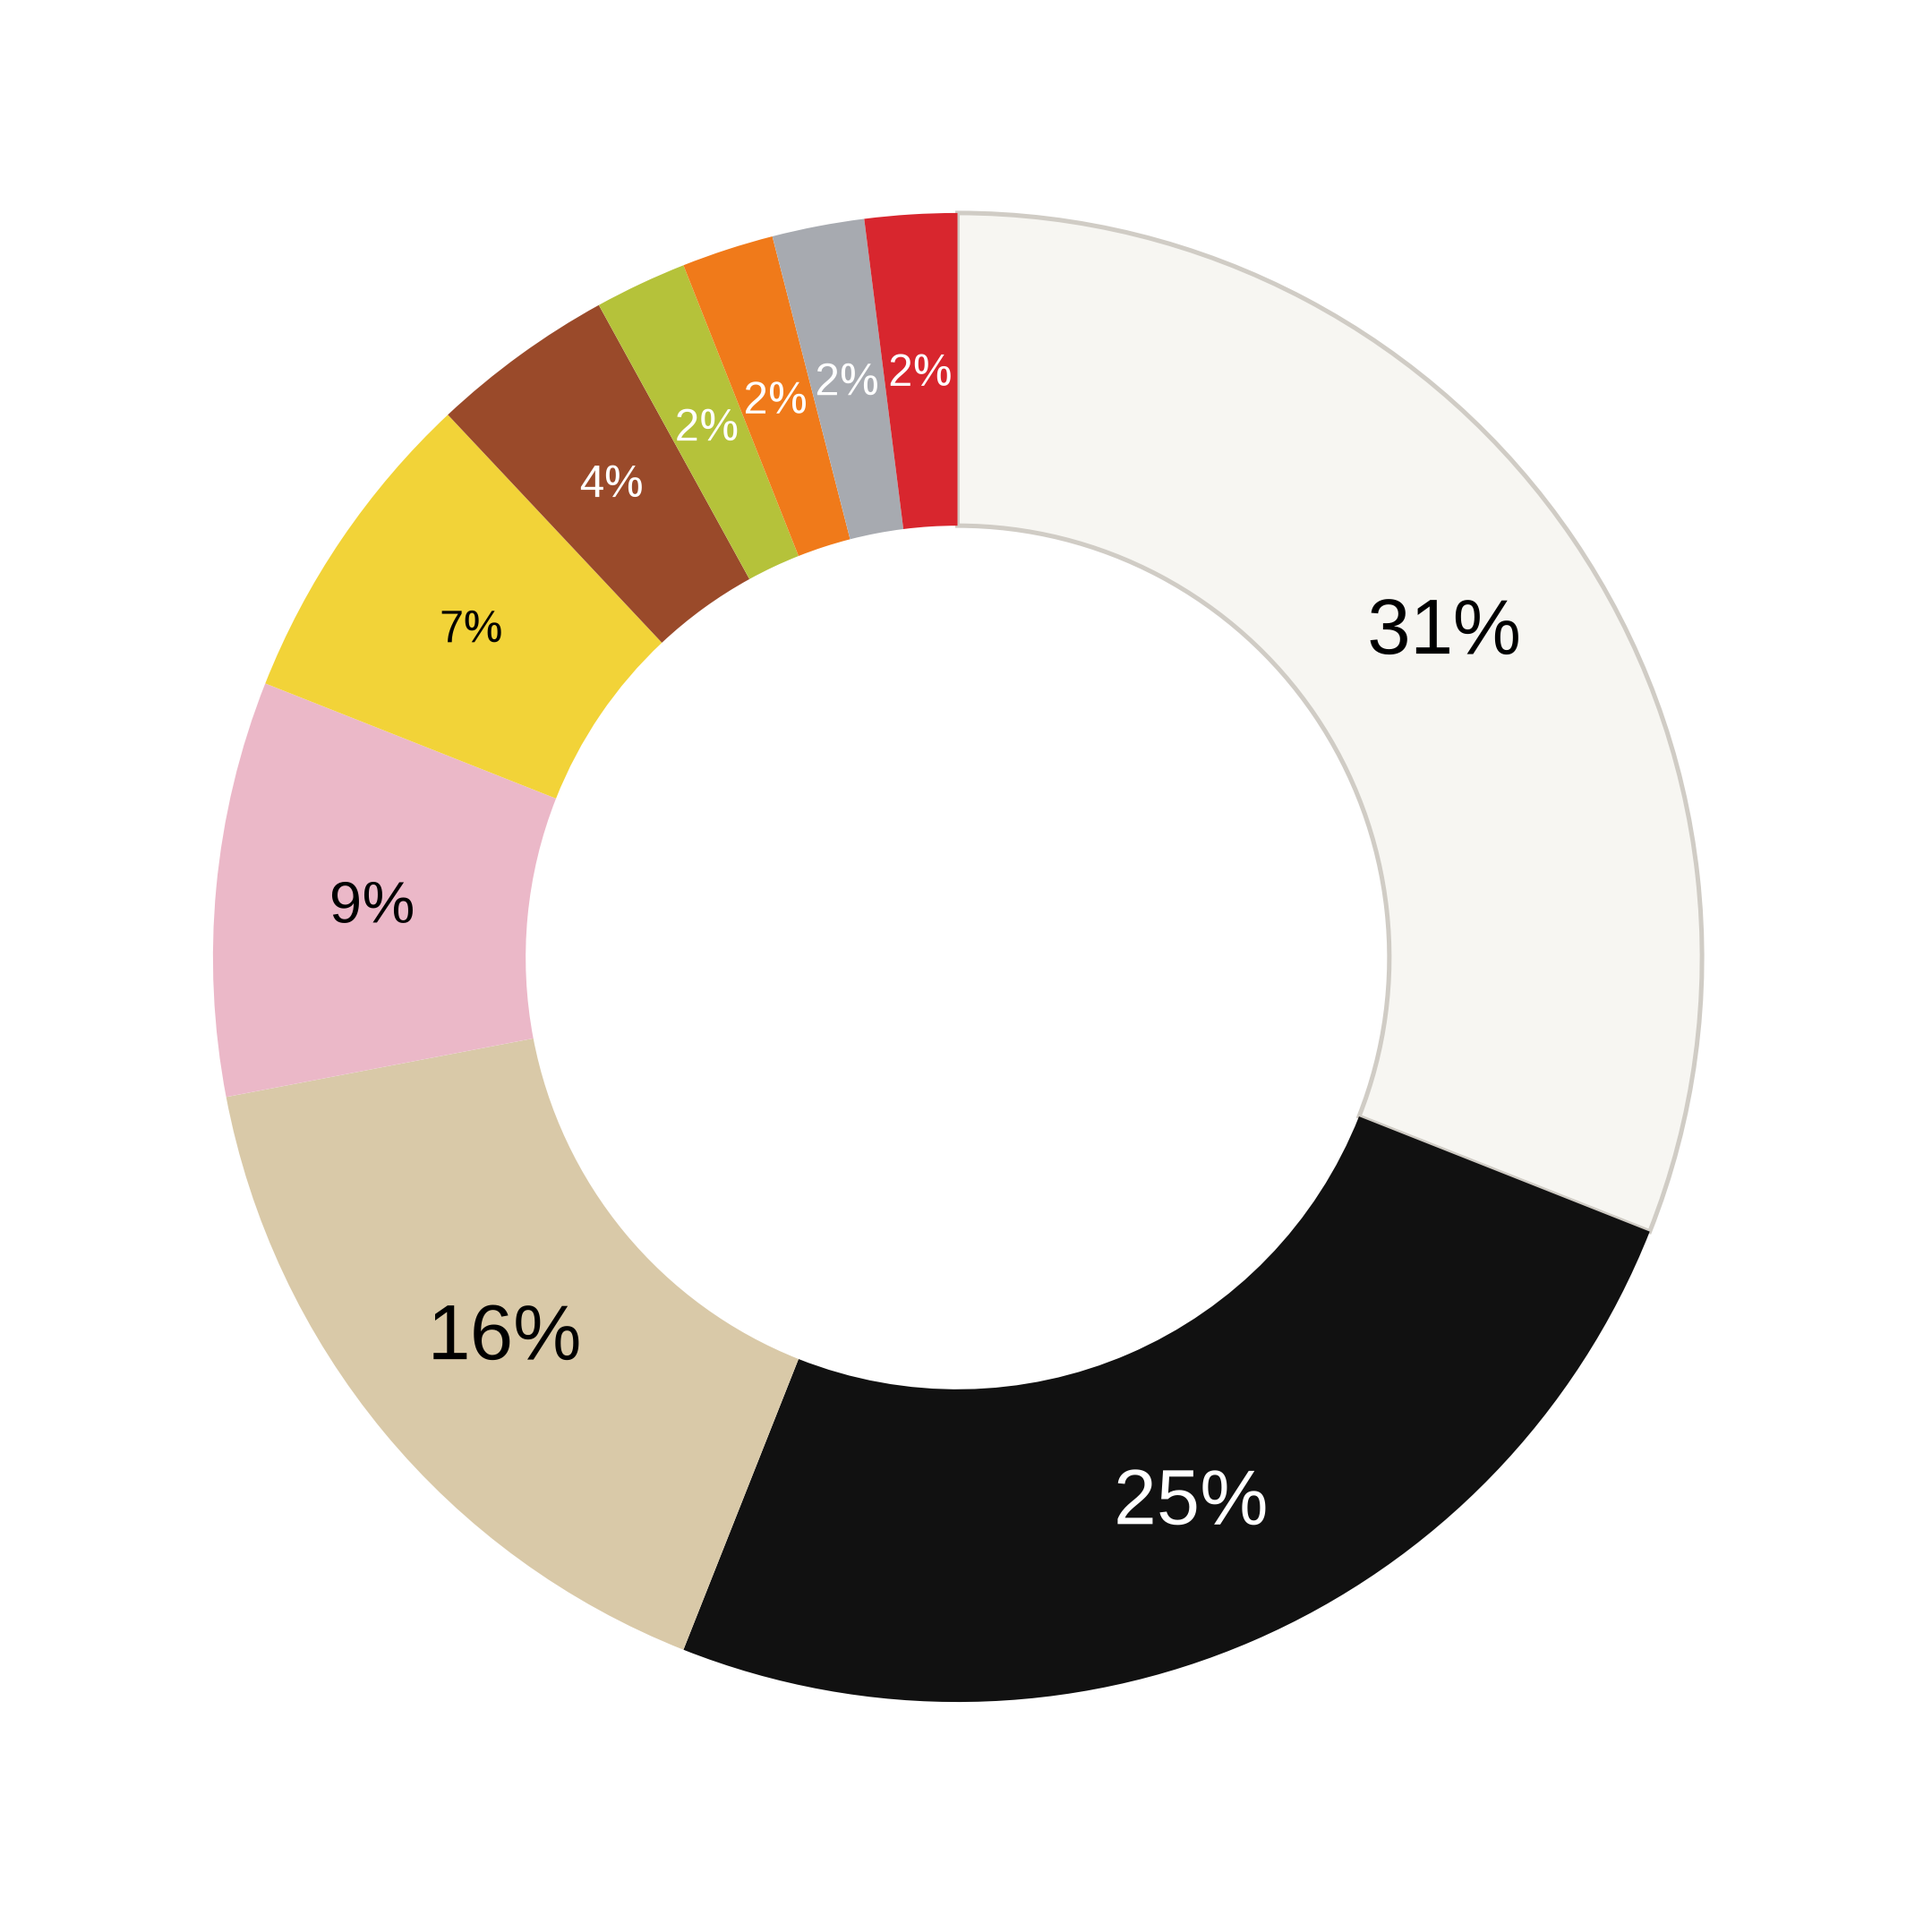
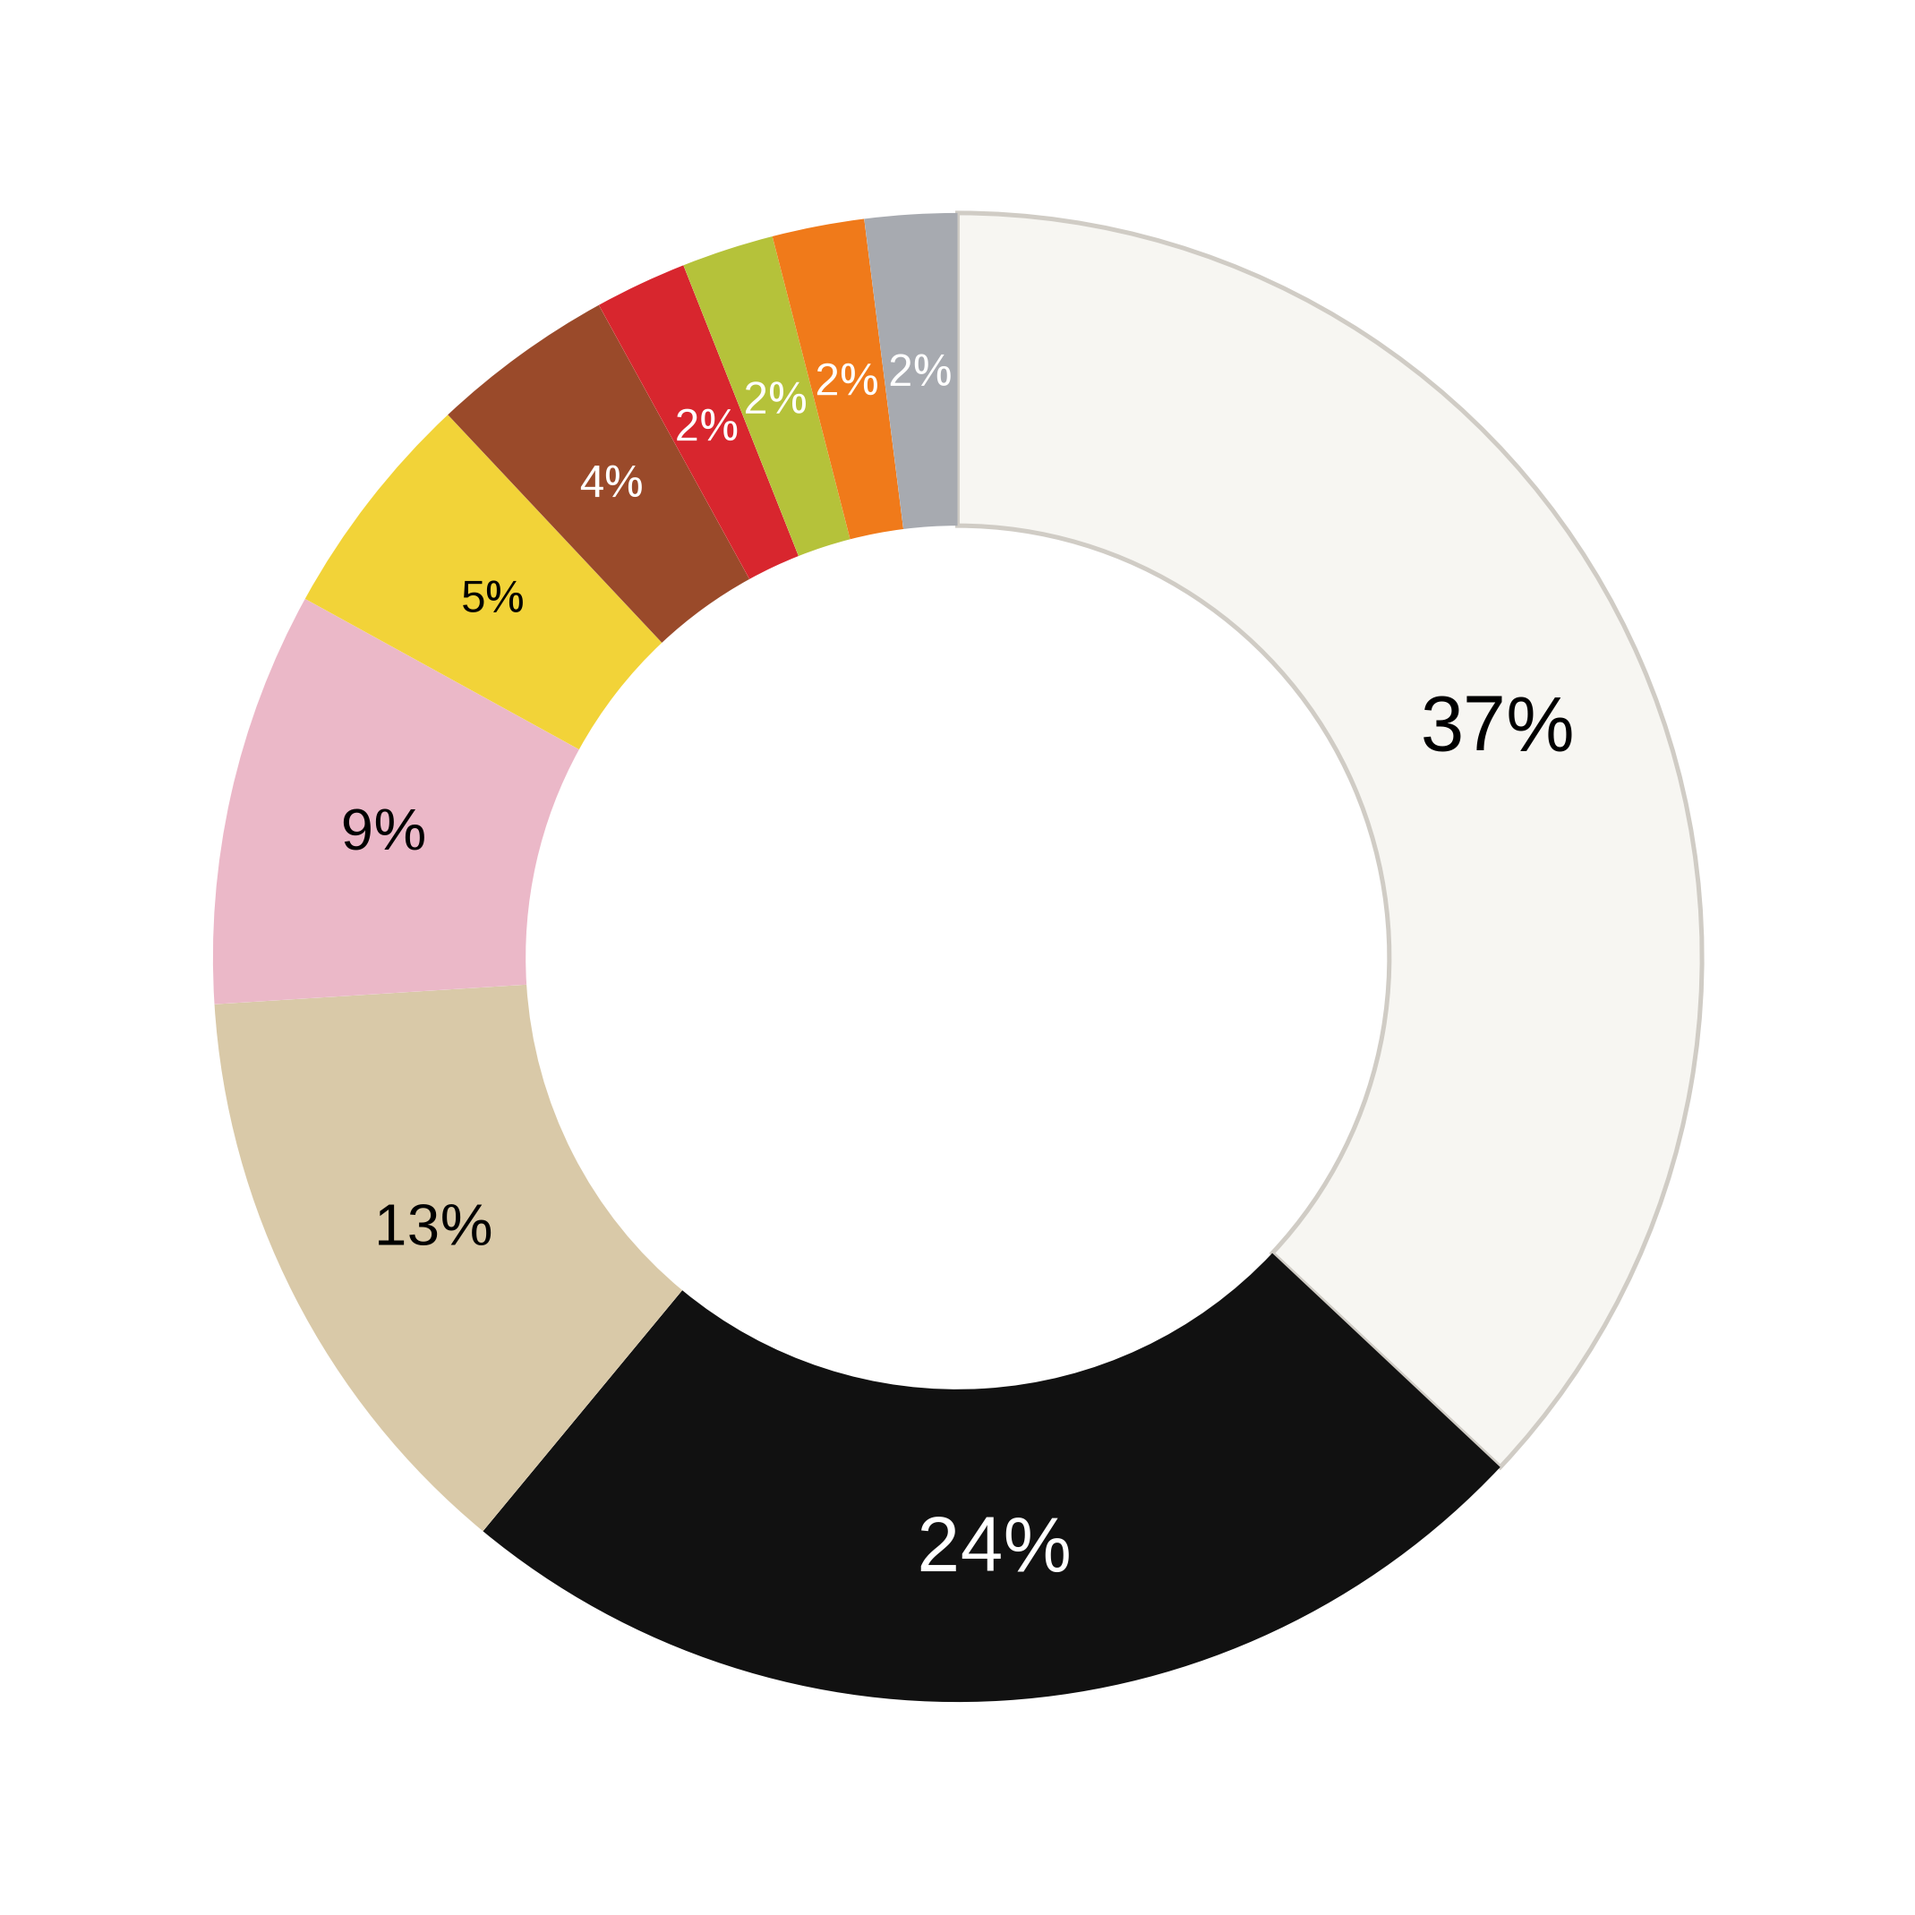
Recount Chloé SS27 from all 54 looks; re-export palette PNG
Claude-Session: https://claude.ai/code/session_01T71EqhwFneaewTc7u3J5cV

diff --git a/.claude/skills/dfb-catwalk-decode/references/season-log.md b/.claude/skills/dfb-catwalk-decode/references/season-log.md
@@ -49,12 +49,13 @@ Update this file after every decode: brand line, trackers, pending list.
 - **The codes are:** the bare midriff, volume at the waist, draped jersey for night.
 - Decode in `examples/stella-mccartney-ss27.json`.
 
-#### Chloé SS27 (Chemena Kamali, "Obsession"): commercial RTW, 45 looks
-- **Palette:** white 31, black 25, cream/beige/khaki 16, pink/lilac 9, yellow 7, rust/brown 4, chartreuse 2, orange 2, grey 2, red 2.
-- **Silhouette:** trench/raincoat/cape 29, top + full maxi skirt 22, suit or top + trouser 16, mini dress 13, maxi dress 9, catsuit 5, jacket/blouse + short or mini 5, bodysuit 2 (sums to 101: equal counts kept equal).
-- **Material:** chiffon/tulle/organza 20, PVC & patent 16, broderie anglaise 13, tailoring 13, cotton gabardine 13, 3D ruffles & flowers 11, leather 5, knit 5, lace 5 (sums to 101).
-- **Other:** bare midriff ~27%, statement hat ~18%, bubble-skirt finale (looks 42–45).
+#### Chloé SS27 (Chemena Kamali, "Obsession"): commercial RTW, 54 looks
+- **Palette:** white 37, black 24, cream/beige/khaki 13, pink/lilac 9, yellow 5, rust/brown 4, red 2, chartreuse 2, orange 2, grey 2.
+- **Silhouette:** trench/raincoat/cape 28, top + full skirt 18, suit or top + trouser 17, top/jacket + short or mini 15, maxi dress 9, mini dress 7, catsuit 4, bodysuit 2.
+- **Material:** chiffon/tulle/organza 16, tailoring 15, PVC & patent 13, fringe & macramé 11, 3D ruffles & flowers 11, broderie anglaise 11, cotton gabardine 11, leather 4, knit 4, lace 4.
+- **Other:** bare midriff 26%, statement hat 19%, fringe opening (looks 1–8) 11%, bubble-skirt finale (looks 51–54) 7%.
 - **The codes are:** the rain cape as the statement, broderie as the house signature, the bubble skirt as the final word.
+- First pass counted 45 looks (missed the fringe opening screen); recounted from all 6 screenshots.
 - Decode in `examples/chloe-ss27.json`.
 
 #### ⚠ Dior SS27: two versions exist. Reconcile before posting.
@@ -75,7 +76,7 @@ Prada 82 · Gucci 28 · Jil Sander 18 · Fendi 16 · Moschino 15 · Marni 14 · 
 - Open question: Saint Laurent is a knee-length pencil skirt (~60%), not a midi. Carmen decides whether it counts. Until she does, chart it separately or footnote it.
 
 ### Single tonal family (% of looks in one colour family)
-Saint Laurent 79 (metallic: gold + bronze) · Ferragamo 50 (brown) · Fendi 42 (black) · Balenciaga 37 (black) · Chloé 31 (white)
+Saint Laurent 79 (metallic: gold + bronze) · Ferragamo 50 (brown) · Fendi 42 (black) · Balenciaga 37 (black) · Chloé 37 (white)
 
 ## Pending
 - **Balmain:** needs screenshots. The Canva template shows Balmain numbers, but the handover lists Balmain as pending. Ask Carmen whether those numbers are real before using them anywhere.
